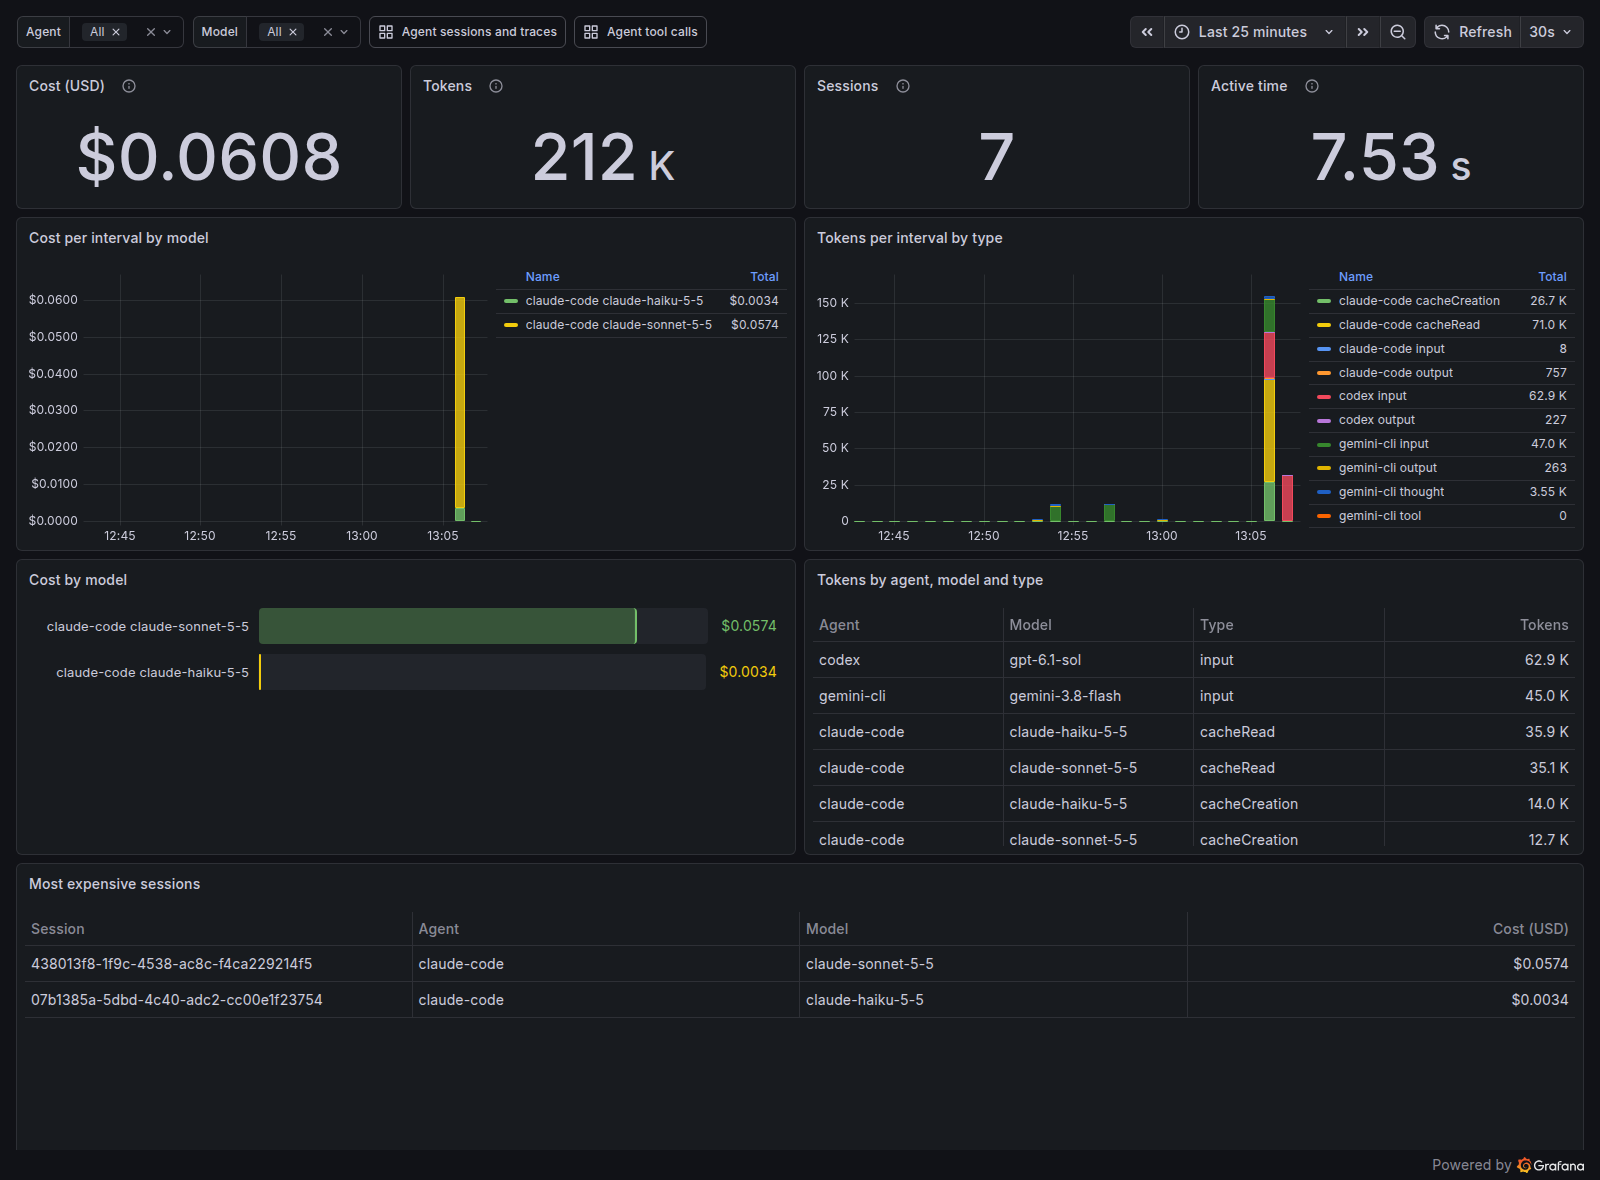
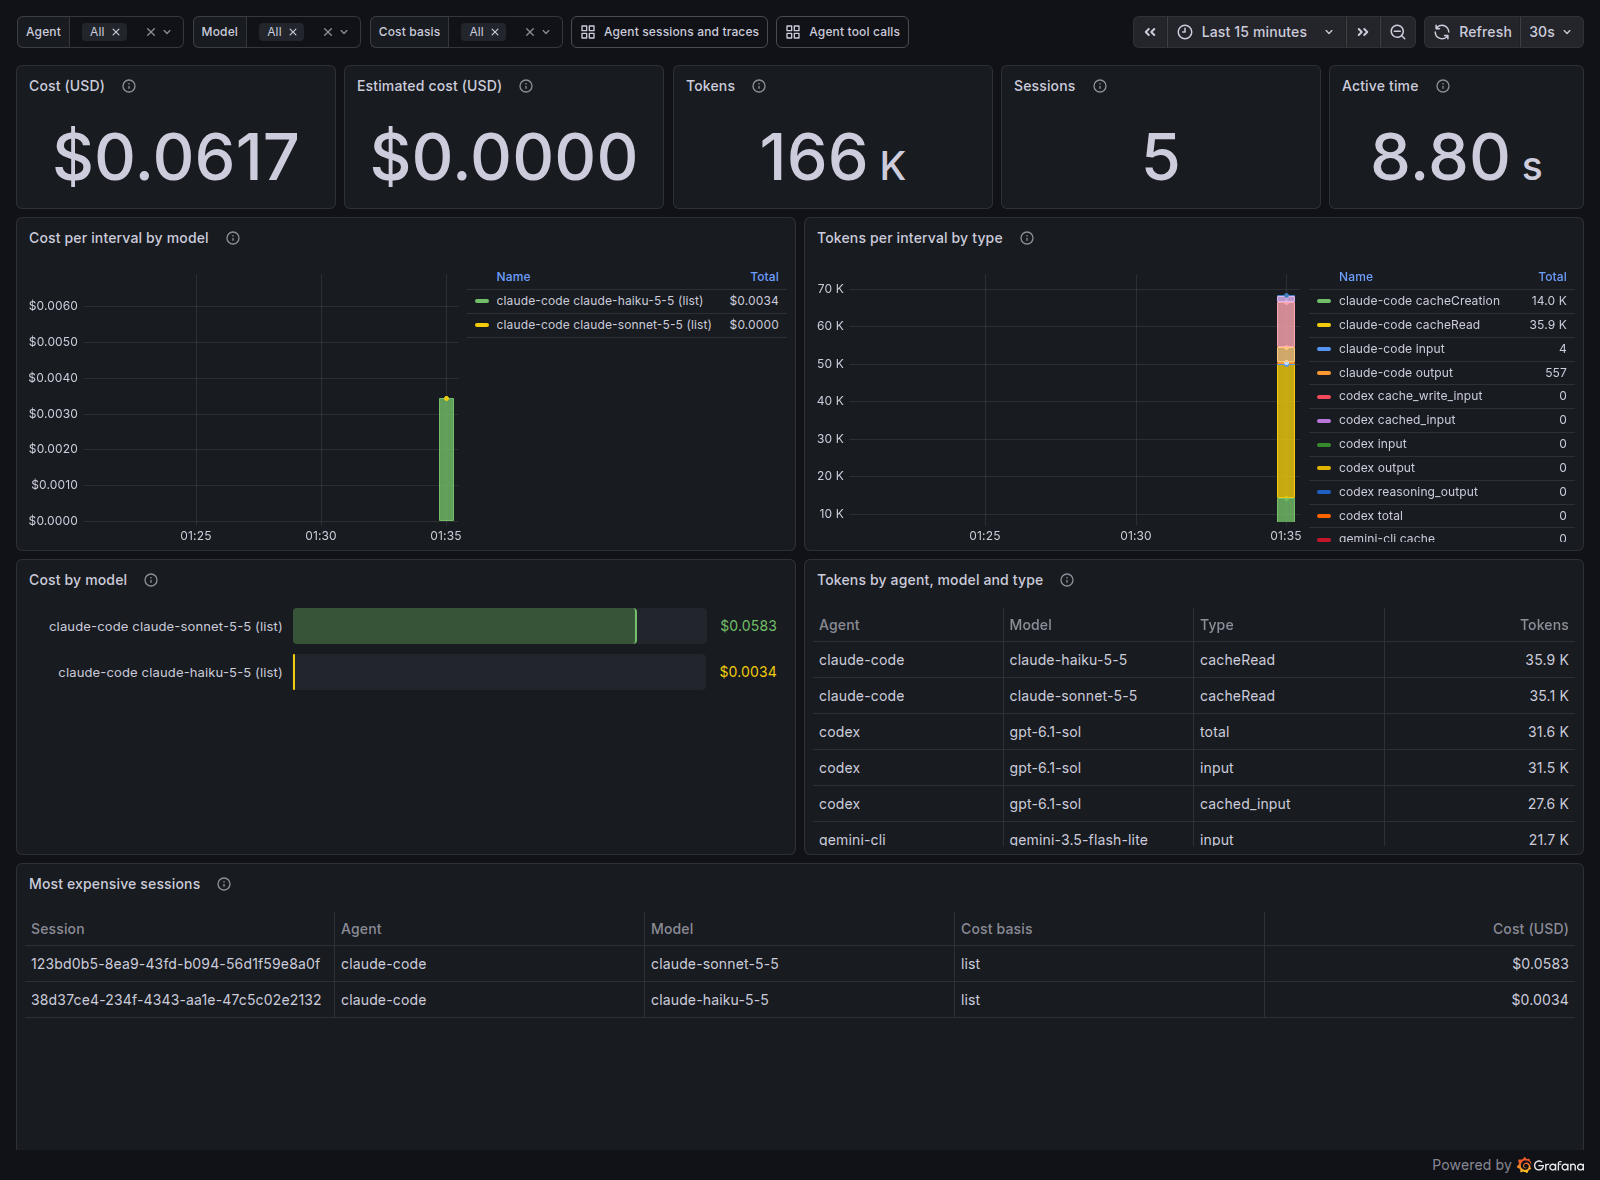
fix(dashboards): name Qwen Code in the cost panel and refresh screenshots (#8)
* fix(dashboards): name Qwen Code among the agents that export no cost

* docs: refresh dashboard screenshots from a real run of all four agents

* no-mistakes(review): docs: add Qwen Code to README screenshot provenance

---------

diff --git a/tools/gendashboards/main.go b/tools/gendashboards/main.go
@@ -141,7 +141,7 @@ func dashboards() []dashboard {
 			{name: "cost_basis", label: "Cost basis", labelName: "cost_basis", matcher: `claude_code_cost_usage_USD_total{agent_name=~"$agent"}`},
 		},
 		panels: []panel{
-			{id: "cost_total", title: "Cost (USD)", desc: "Cost reported by Claude Code (claude_code.cost.usage) in the selected range at list price or your managed modelPricing rates. Estimated cost is not included. Codex and Gemini CLI do not export cost.",
+			{id: "cost_total", title: "Cost (USD)", desc: "Cost reported by Claude Code (claude_code.cost.usage) in the selected range at list price or your managed modelPricing rates. Estimated cost is not included. Codex, Gemini CLI and Qwen Code do not export cost.",
 				kind: stat, unit: "currencyUSD", decimals: 4, x: 0, y: 0, w: 5, h: 4,
 				queries: []query{{ds: prom, expr: "sum(" + rangeTotal(costExactSel) + ") or vector(0)", instant: true}}},
 			{id: "cost_estimated_total", title: "Estimated cost (USD)", desc: costBasisDesc,

diff --git a/README.md b/README.md
@@ -111,7 +111,7 @@ Metric names seen in Prometheus from Claude Code 2.1.325: `claude_code_cost_usag
 
 Event names seen in Loki: Claude Code `tool_result`, `tool_decision`, `api_request`, `user_prompt`, ...; Codex `codex.tool_result`, `codex.tool_decision`, `codex.sse_event`, `codex.api_request`, `codex.user_prompt`, ...; Gemini CLI `gemini_cli.tool_call`, `gemini_cli.api_request`, `gemini_cli.api_response`, `gemini_cli.file_operation`, `gemini_cli.user_prompt`, ...; Qwen Code `qwen-code.tool_call`, `qwen-code.api_request`, `qwen-code.api_response`, `qwen-code.file_operation`, `qwen-code.user_prompt`, .... Claude Code also defines `claude_code.lines_of_code.count`, `claude_code.commit.count`, `claude_code.pull_request.count` and `claude_code.code_edit_tool.decision`, which only appear after edits, commits or pull requests.
 
-The screenshots were taken from this stack with real sessions run on the author's machine: Claude Code (`make demo`), `codex exec` and `gemini -p`, then `make screenshots`. The demo GIF at the top is a headless Chromium recording of the same dashboards during one such run, only trimmed and sped up; `docs/demo.mp4` is its source.
+The screenshots were taken from this stack with real sessions run on the author's machine: Claude Code (`make demo`), `codex exec`, `gemini -p` and Qwen Code 0.27.4 (`qwen -p`, against a local OpenAI-compatible mock model server with a dummy key), then `make screenshots`. The demo GIF at the top is a headless Chromium recording of the same dashboards during one such run, only trimmed and sped up; `docs/demo.mp4` is its source.
 
 ## Claude Code with third-party (Anthropic-compatible) endpoints
 
@@ -310,7 +310,7 @@ Prometheus에 실제로 들어온 메트릭 이름. Claude Code 2.1.325: `claude
 
 Loki에서 본 이벤트 이름: Claude Code `tool_result`, `tool_decision`, `api_request`, `user_prompt` 등; Codex `codex.tool_result`, `codex.tool_decision`, `codex.sse_event`, `codex.api_request`, `codex.user_prompt` 등; Gemini CLI `gemini_cli.tool_call`, `gemini_cli.api_request`, `gemini_cli.api_response`, `gemini_cli.file_operation`, `gemini_cli.user_prompt` 등; Qwen Code `qwen-code.tool_call`, `qwen-code.api_request`, `qwen-code.api_response`, `qwen-code.file_operation`, `qwen-code.user_prompt` 등.
 
-스크린샷은 작성자 컴퓨터에서 실제 세션을 돌린 이 스택에서 찍었습니다: Claude Code(`make demo`), `codex exec`, `gemini -p`, 그다음 `make screenshots`. 맨 위 데모 GIF는 그런 실행 한 번 동안 같은 대시보드를 headless Chromium으로 녹화한 것으로, 자르기와 배속만 했습니다. 원본은 `docs/demo.mp4`입니다.
+스크린샷은 작성자 컴퓨터에서 실제 세션을 돌린 이 스택에서 찍었습니다: Claude Code(`make demo`), `codex exec`, `gemini -p`, Qwen Code 0.27.4(`qwen -p`, dummy 키를 쓰는 로컬 OpenAI 호환 mock 모델 서버 대상), 그다음 `make screenshots`. 맨 위 데모 GIF는 그런 실행 한 번 동안 같은 대시보드를 headless Chromium으로 녹화한 것으로, 자르기와 배속만 했습니다. 원본은 `docs/demo.mp4`입니다.
 
 ### 서드파티(Anthropic 호환) 엔드포인트로 Claude Code 쓰기
 
